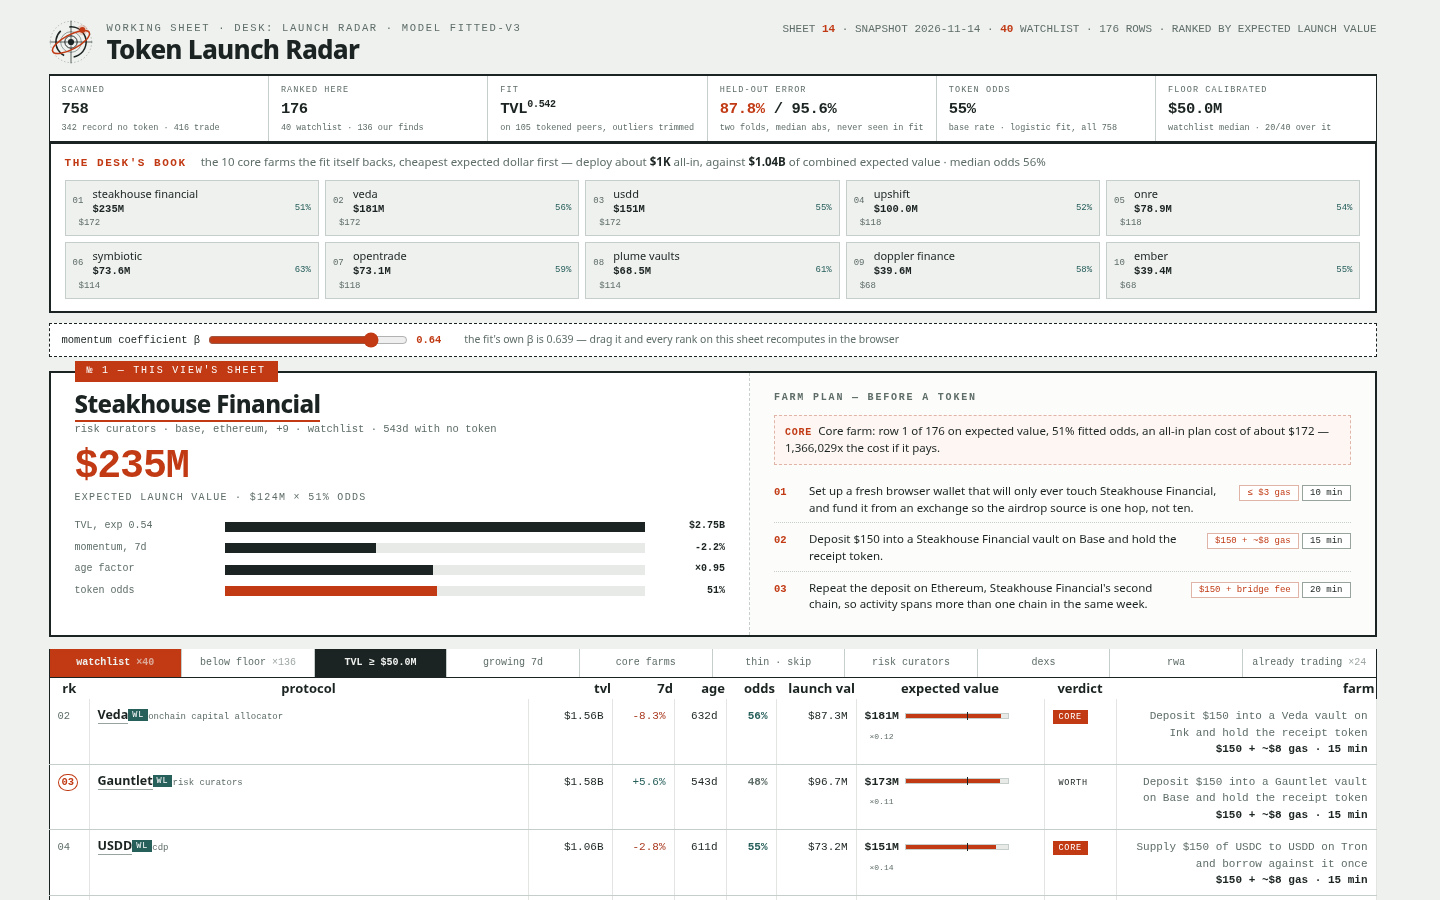
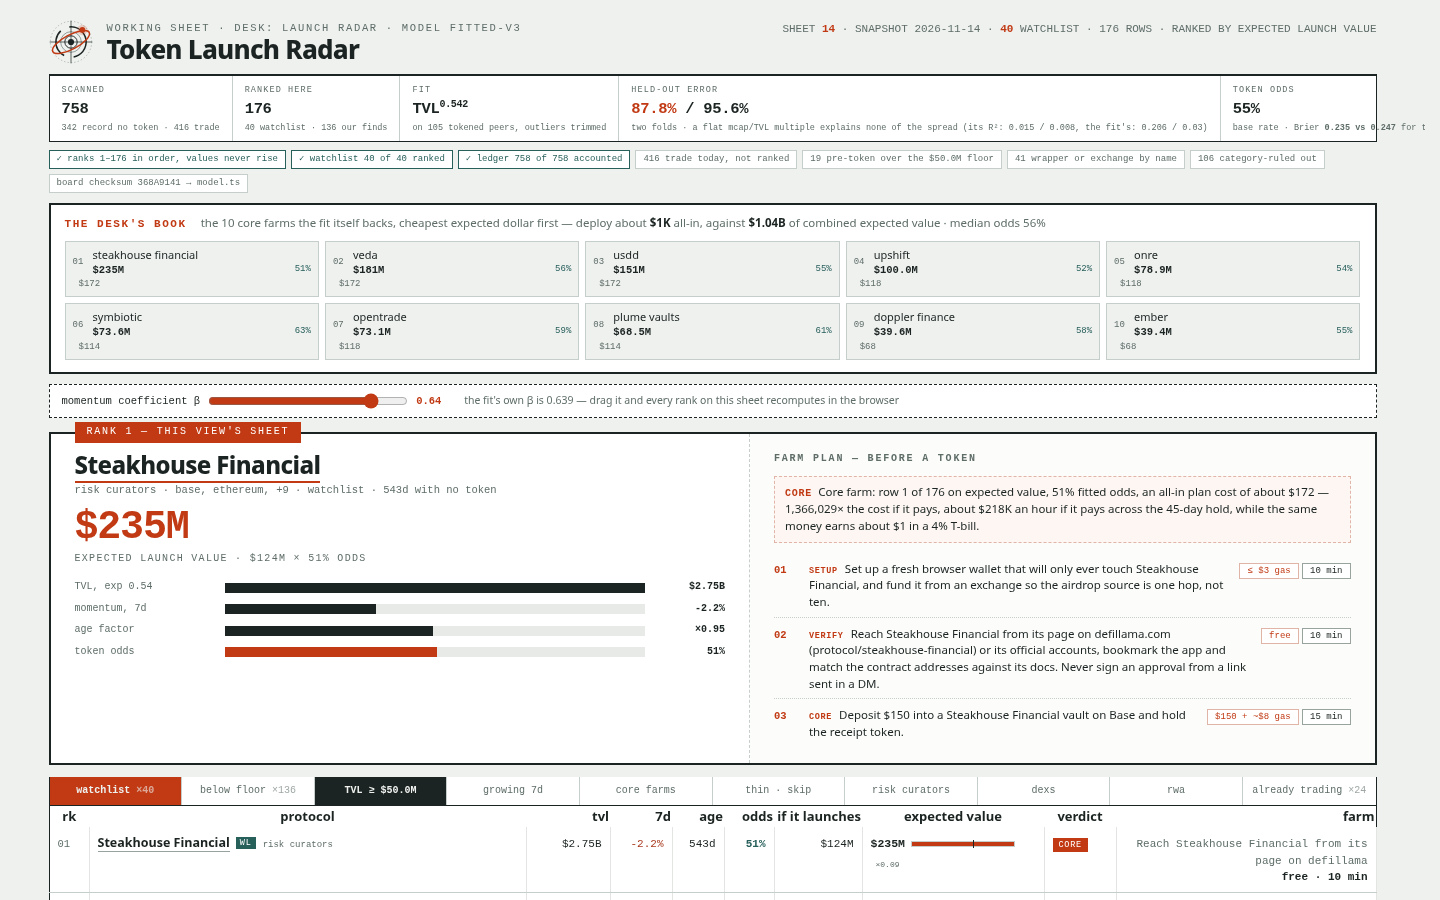
v6: radar-3 detail strengths — exit-rule step with a numeric trigger, verb-named steps, rank band across 200 seeded bootstrap refits, one-sentence verdict with per-hour and T-bill benchmark, recomputed-in-browser check

diff --git a/lib/model.ts b/lib/model.ts
@@ -111,6 +111,7 @@ export interface ModelReport {
 }
 
 export interface FarmStep {
+  kind: string;
   text: string;
   cost: string;
   time: string;
@@ -150,6 +151,8 @@ export interface BoardRow {
   };
   verdict: { label: VerdictLabel; cost_usd: number; multiple: number };
   farm_steps: string[];
+  /** The row's rank band across 200 bootstrap refits of the value model. */
+  rank_range?: [number, number];
 }
 
 export interface RadarRow extends Omit<BoardRow, 'farm_steps' | 'verdict'> {
@@ -525,8 +528,9 @@ function walletFor(chain: string): string {
   return 'a fresh browser wallet';
 }
 
-/** The plan: concrete steps that change with the protocol's own chains, category, TVL and age. */
-export function farmSteps(p: SnapshotProtocol, age: number | null): FarmStep[] {
+/** The plan: concrete steps that change with the protocol's own chains, category, TVL and age.
+    Each step carries a verb name that states its job, and one step is an exit rule with a number. */
+export function farmSteps(p: SnapshotProtocol, age: number | null, exitPct: number): FarmStep[] {
   const chain = p.chains.length > 0 ? p.chains[0]! : 'its main chain';
   const second = p.chains.length > 1 ? p.chains[1]! : null;
   const tvl = tvlOf(p);
@@ -541,29 +545,66 @@ export function farmSteps(p: SnapshotProtocol, age: number | null): FarmStep[] {
     : cat.includes('curator') || cat.includes('allocator')
       ? `Read ${p.name}'s vault strategy note once a week and act only on links published there — never from a DM, a reply or an ad.`
       : `Check ${p.name}'s own points, rewards or docs page once a week and claim only from links published there — never from a DM, a reply or an ad.`;
+  const exitLevel = tvl * (1 + exitPct / 100);
+  const own = p.change_7d == null ? 'no week recorded' : `${p.change_7d >= 0 ? '+' : ''}${p.change_7d!.toFixed(1)}% last week`;
   return [
     {
+      kind: 'setup',
       text: `Set up ${wallet} that will only ever touch ${p.name}, and fund it from an exchange so the airdrop source is one hop, not ten.`,
       cost: '≤ $3 gas',
       time: '10 min',
     },
     {
+      kind: 'verify',
+      text: `Reach ${p.name} from its page on defillama.com (protocol/${p.slug}) or its official accounts, bookmark the app and match the contract addresses against its docs. Never sign an approval from a link sent in a DM.`,
+      cost: 'free',
+      time: '10 min',
+    },
+    {
+      kind: 'core',
       text: actionFor(p, capital, chain) + small,
       cost: `$${capital} + ~$${capital >= 150 ? 8 : 4} gas`,
       time: '15 min',
     },
     second
-      ? { text: `Repeat the deposit on ${second}, ${p.name}'s second chain, so activity spans more than one chain in the same week.`, cost: `$${capital} + bridge fee`, time: '20 min' }
-      : { text: `Make one qualifying action each week — a deposit, a swap, a vote or a claim — on ${chain}, always through ${p.name}'s own app.`, cost: '~$2 gas/wk', time: '10 min/wk' },
+      ? {
+          kind: 'deepen',
+          text: `Repeat the deposit on ${second}, ${p.name}'s second chain, so activity spans more than one chain in the same week.`,
+          cost: `$${capital} + bridge fee`,
+          time: '20 min',
+        }
+      : {
+          kind: 'deepen',
+          text: `Make one qualifying action each week — a deposit, a swap, a vote or a claim — on ${chain}, always through ${p.name}'s own app.`,
+          cost: '~$2 gas/wk',
+          time: '10 min/wk',
+        },
     {
+      kind: 'cadence',
       text: young
         ? `Hold the position for at least ${hold} days, across at least ${Math.ceil(hold / 7)} separate weeks — ${p.name} is young (${age} days), and early consistency is what a launch snapshot catches.`
         : `Hold the position for at least ${hold} days, across at least three separate weeks, so the wallet's activity shows in more than one monthly snapshot.`,
       cost: 'capital stays in',
       time: `${hold} days`,
     },
-    { text: check, cost: 'free to check', time: '10 min/wk' },
-    { text: `Log the wallet address, every date and every transaction hash in one running file, so a claim form, an eligibility check or an unwind takes minutes.`, cost: 'free', time: '5 min/wk' },
+    {
+      kind: 'watch',
+      text: check,
+      cost: 'free to check',
+      time: '10 min/wk',
+    },
+    {
+      kind: 'exit',
+      text: `Exit rule, checked weekly: withdraw if ${p.name}'s TVL points below ${usd(exitLevel)} — that is ${exitPct.toFixed(1)}% in a week, worse than 95% of this snapshot's protocols (${own}) — and also if withdrawals pause or the team hints a snapshot has already been taken.`,
+      cost: 'free to check',
+      time: '5 min/wk',
+    },
+    {
+      kind: 'record',
+      text: `Log the wallet address, every date and every transaction hash in one running file, so a claim form, an eligibility check or an unwind takes minutes. A claim may ask the wallet to prove its history, and a drop is taxable income in many places at its value on the day it arrives.`,
+      cost: 'free',
+      time: '5 min/wk',
+    },
   ];
 }
 
@@ -575,7 +616,7 @@ export function planCostUsd(p: SnapshotProtocol, age: number | null): number {
   return capital + gas + 2 * weeks;
 }
 
-export function verdictFor(expected: number, costUsd: number, odds: number, rank: number, boardSize: number): FarmVerdict {
+export function verdictFor(expected: number, costUsd: number, odds: number, rank: number, boardSize: number, holdDays: number): FarmVerdict {
   const multiple = Math.round((expected / Math.max(1, costUsd)) * 10) / 10;
   const frac = rank / Math.max(1, boardSize);
   let label: VerdictLabel;
@@ -585,7 +626,9 @@ export function verdictFor(expected: number, costUsd: number, odds: number, rank
   else label = 'skip';
   const verdictWord = label === 'core' ? 'Core farm' : label === 'worth it' ? 'Worth it' : label === 'thin' ? 'Thin' : 'Skip';
   const multipleTxt = multiple >= 1000 ? Math.round(multiple).toLocaleString('en-US') : String(multiple);
-  const text = `${verdictWord}: row ${rank} of ${boardSize} on expected value, ${(odds * 100).toFixed(0)}% fitted odds, an all-in plan cost of about $${Math.round(costUsd)} — ${multipleTxt}x the cost if it pays.`;
+  const perHour = expected / Math.max(1, holdDays * 24);
+  const tbill = Math.max(1, Math.round(costUsd * 0.04 * (holdDays / 365)));
+  const text = `${verdictWord}: row ${rank} of ${boardSize} on expected value, ${(odds * 100).toFixed(0)}% fitted odds, an all-in plan cost of about $${Math.round(costUsd)} — ${multipleTxt}× the cost if it pays, about ${usd(perHour)} an hour if it pays across the ${holdDays}-day hold, while the same money earns about $${tbill} in a 4% T-bill.`;
   return { label, cost_usd: Math.round(costUsd), multiple, text };
 }
 
@@ -728,11 +771,32 @@ export function fitModel(snapshot: Snapshot): { report: ModelReport; launch: Val
       })(),
     },
   };
-  return { report, launch: fit, oddsFit, calib, ctx, keptSlugs, anchors };
+  return { report, launch: fit, oddsFit, calib, ctx, keptSlugs, anchors, compUsed: chosen.useComp, exitPct: quantileSorted(snapshot.protocols.map((p) => p.change_7d ?? null).filter((v): v is number => v !== null).sort((a, b) => a - b), 0.05) };
 }
 
 function round3(v: number): number {
   return Math.round(v * 1000) / 1000;
+}
+
+/** Compact dollars, same shape as the dashboard's money(). */
+function usd(v: number): string {
+  const n = Math.abs(v);
+  if (n >= 1e9) return `$${(n / 1e9).toFixed(2)}B`;
+  if (n >= 1e6) return `$${(n / 1e6).toFixed(n >= 1e8 ? 0 : 1)}M`;
+  if (n >= 1e3) return `$${Math.round(n / 1e3)}K`;
+  return `$${Math.round(n)}`;
+}
+
+/** A seeded PRNG, so the bootstrap's two runs pick the same resamples. */
+function mulberry32(seed: number): () => number {
+  let a = seed >>> 0;
+  return () => {
+    a |= 0;
+    a = (a + 0x6d2b79f5) | 0;
+    let t = Math.imul(a ^ (a >>> 15), 1 | a);
+    t = (t + Math.imul(t ^ (t >>> 7), 61 | t)) ^ t;
+    return ((t ^ (t >>> 14)) >>> 0) / 4294967296;
+  };
 }
 
 /** The ranked board: every watchlist slug plus every rankable pre-token protocol below the floor. */
@@ -764,9 +828,10 @@ export function buildBoard(snapshot: Snapshot, model: { launch: ValueFit; oddsFi
     };
   });
   scored.sort((a, b) => b.expected - a.expected || (a.p.slug < b.p.slug ? -1 : 1));
+  const exitPct = quantileSorted(snapshot.protocols.map((p) => p.change_7d ?? null).filter((v): v is number => v !== null).sort((a, b) => a - b), 0.05);
   const rows = scored.map((s, i) => {
     const cost = planCostUsd(s.p, s.age);
-    const verdict = verdictFor(s.expected, cost, s.odds, i + 1, scored.length);
+    const verdict = verdictFor(s.expected, cost, s.odds, i + 1, scored.length, holdDaysFor(s.age));
     return {
       rank: i + 1,
       slug: s.p.slug,
@@ -791,7 +856,7 @@ export function buildBoard(snapshot: Snapshot, model: { launch: ValueFit; oddsFi
         age_days_used: Math.min(s.age ?? AGE_UNKNOWN_DAYS, AGE_CAP_DAYS),
       },
       verdict: { label: verdict.label, cost_usd: verdict.cost_usd, multiple: verdict.multiple },
-      farm_steps: farmSteps(s.p, s.age).map(stepText),
+      farm_steps: farmSteps(s.p, s.age, exitPct).map(stepText),
     };
   });
   const above = rows.filter((r) => r.on_watchlist && r.implied_value_usd >= snapshot.floor_usd).length;
@@ -821,6 +886,32 @@ export function buildRadar(snapshot: Snapshot): { board: BoardRow[]; radar: Rada
     .sort((a, b) => a.category < b.category ? -1 : 1);
   const early = board.filter((r) => !snapshot.watchlist.includes(r.slug)).length;
   const bySlug = new Map(snapshot.protocols.map((p) => [p.slug, p]));
+  // Rank uncertainty: refit the value model on 200 bootstrap resamples of the kept tokened rows
+  // (seeded, so two runs agree), re-rank the board each time, and record each row's rank band.
+  const tokened = snapshot.protocols
+    .filter((p) => p.mcap_usd !== null && (p.mcap_usd as number) > 0 && tvlOf(p) > 0)
+    .sort((a, b) => (a.slug < b.slug ? -1 : 1))
+    .map((p) => ({ p, f: featuresOf(p, snapshot.as_of, ctx, true) }));
+  const boardFeat = board.map((r) => {
+    const p = bySlug.get(r.slug) as SnapshotProtocol;
+    return { f: featuresOf(p, snapshot.as_of, ctx, false), odds: r.token_odds };
+  });
+  const rnd = mulberry32(20261114);
+  const tally: number[][] = board.map(() => []);
+  for (let it = 0; it < 200; it++) {
+    const sample: typeof tokened = [];
+    for (let i = 0; i < tokened.length; i++) sample.push(tokened[Math.floor(rnd() * tokened.length)]!);
+    const bs = robustFit(sample, model.compUsed).fit;
+    const vals = boardFeat.map((bf) => model.calib * launchValueOf(bf.f, bs) * bf.odds);
+    const order = vals.map((v, i) => ({ v, i })).sort((a, b) => b.v - a.v || (a.i < b.i ? -1 : 1));
+    order.forEach((o, place) => tally[o.i]!.push(place + 1));
+  }
+  const rankRange = (t: number[]): [number, number] => {
+    const s = [...t].sort((a, b) => a - b);
+    return [s[Math.floor(0.1 * s.length)] ?? 0, s[Math.floor(0.9 * s.length)] ?? 0];
+  };
+  board.forEach((r, i) => { r.rank_range = rankRange(tally[i]!); });
+  const exitPct = model.exitPct;
   const radar: RadarData = {
     as_of: snapshot.as_of,
     source: snapshot.source,
@@ -837,7 +928,7 @@ export function buildRadar(snapshot: Snapshot): { board: BoardRow[]; radar: Rada
     rows: board.map((r) => {
       const p = bySlug.get(r.slug) as SnapshotProtocol;
       const cost = planCostUsd(p, r.age_days);
-      return { ...r, plan: farmSteps(p, r.age_days), verdict: verdictFor(r.implied_value_usd, cost, r.token_odds, r.rank, board.length) };
+      return { ...r, plan: farmSteps(p, r.age_days, exitPct), verdict: verdictFor(r.implied_value_usd, cost, r.token_odds, r.rank, board.length, holdDaysFor(r.age_days)) };
     }),
     live,
     anchors: model.anchors,

diff --git a/dashboard/app.js b/dashboard/app.js
@@ -235,7 +235,7 @@ function leadHtml(s) {
     <div class="plan">
       <h2>Farm plan — before a token</h2>
       <div class="vline"><b>${r.verdict.label}</b>${esc(r.verdict.text)}</div>
-      ${r.plan.slice(0, 3).map((st, i) => `<div class="step"><span class="sno">${String(i + 1).padStart(2, '0')}</span><span class="stx">${esc(st.text)}</span><span><span class="chip cost">${esc(st.cost)}</span> <span class="chip">${esc(st.time)}</span></span></div>`).join('')}
+      ${r.plan.slice(0, 3).map((st, i) => `<div class="step"><span class="sno">${String(i + 1).padStart(2, '0')}</span><span class="stx"><b class="sk">${esc(st.kind)}</b> ${esc(st.text)}</span><span><span class="chip cost">${esc(st.cost)}</span> <span class="chip">${esc(st.time)}</span></span></div>`).join('')}
     </div>
   </section>`;
 }
@@ -307,7 +307,7 @@ function detailHtml(r) {
   return `
   <div class="crumb">
     <a href="#">← back to the board</a>
-    <div class="pos">row <b>${boardNo} of ${R.board_size}</b> on the sheet · rank <b>${r.rank}</b> by expected value · ${r.on_watchlist ? 'on the watchlist' : 'our find, below the floor'} · ${vdChip(r.verdict.label)}</div>
+    <div class="pos">row <b>${boardNo} of ${R.board_size}</b> on the sheet · rank <b>${r.rank}</b> · ${r.rank_range[0]}–${r.rank_range[1]} across bootstrap refits · ${r.on_watchlist ? 'on the watchlist' : 'our find, below the floor'} · ${vdChip(r.verdict.label)}</div>
   </div>
   <div class="dhead">
     <div>
@@ -326,6 +326,7 @@ function detailHtml(r) {
     <section class="panel" aria-label="the value model">
       <h2>The value model — how ${money(r.implied_value_usd)} is built</h2>
       <div class="bd">
+        <div class="recomp">✓ recomputed in this browser: ${calib.multiplier} × ${money(r.launch_value_usd)} × ${Math.round(r.token_odds * 100)}% = ${money(Math.round(calib.multiplier * r.launch_value_usd * r.token_odds))} — equals the board's printed value</div>
         <div class="formula">launch value = TVL<sup>${f.b_tvl}</sup> × e<sup>${f.b_mom}·momentum</sup> × e<sup>${f.b_age}·age</sup>, × fitted odds ${Math.round(r.token_odds * 100)}% — every coefficient fitted on the snapshot's ${f.n} cleanest tokened peers, then × ${calib.multiplier} calibration to the watchlist floor</div>
         <div class="mrow"><span>TVL, exp ${m.tvl_exponent}</span><span class="mtrack"><span class="mfill" style="width:${(r.tvl_usd / maxTvl * 100).toFixed(1)}%"></span></span><span class="mval">${money(r.tvl_usd)}</span></div>
         <div class="mrow"><span>momentum, 7d</span><span class="mtrack"><span class="mfill" style="width:${Math.min(100, Math.max(4, (r.change_7d == null ? 50 : (r.change_7d + 60) / 160 * 100))).toFixed(1)}%"></span></span><span class="mval">${pct(r.change_7d)} → ×${m.momentum_mult}</span></div>
@@ -343,7 +344,7 @@ function detailHtml(r) {
       <h2>Farm plan — ${r.plan.length} steps, before a token</h2>
       <div class="bd">
         <div class="vline"><b>${r.verdict.label}</b>${esc(r.verdict.text)}</div>
-        ${r.plan.map((s, i) => `<div class="dstep"><span class="sno">${String(i + 1).padStart(2, '0')}</span><span class="stx">${esc(s.text)}</span><span><span class="chip cost">${esc(s.cost)}</span> <span class="chip">${esc(s.time)}</span></span></div>`).join('')}
+        ${r.plan.map((s, i) => `<div class="dstep"><span class="sno">${String(i + 1).padStart(2, '0')}</span><span class="stx"><b class="sk">${esc(s.kind)}</b> ${esc(s.text)}</span><span><span class="chip cost">${esc(s.cost)}</span> <span class="chip">${esc(s.time)}</span></span></div>`).join('')}
         ${budgetsHtml(r)}
       </div>
     </section>

diff --git a/dashboard/app.css b/dashboard/app.css
@@ -173,6 +173,8 @@ td.num,.iv{font-family:var(--mono);font-size:11px}
 .stress .snote{font-size:10.5px;color:var(--faint)}
 
 /* ---------- the anchors scatter ---------- */
+.recomp{font-family:var(--mono);font-size:10px;color:var(--teal);border:1px dashed var(--teal);padding:4px 8px;margin:0 0 10px}
+.dstep .sk,.step .sk{font-family:var(--mono);font-size:8.5px;letter-spacing:.08em;text-transform:uppercase;color:var(--verm);margin-right:4px}
 .scatter{margin-top:14px;border-top:1px dashed var(--hair);padding-top:10px}
 .scatter h3,.budgets h3{font-size:11px;letter-spacing:.08em;text-transform:uppercase;color:var(--ink);margin:0 0 6px}
 .scatter svg{width:100%;max-width:420px;height:auto;display:block;margin:4px 0 6px}
